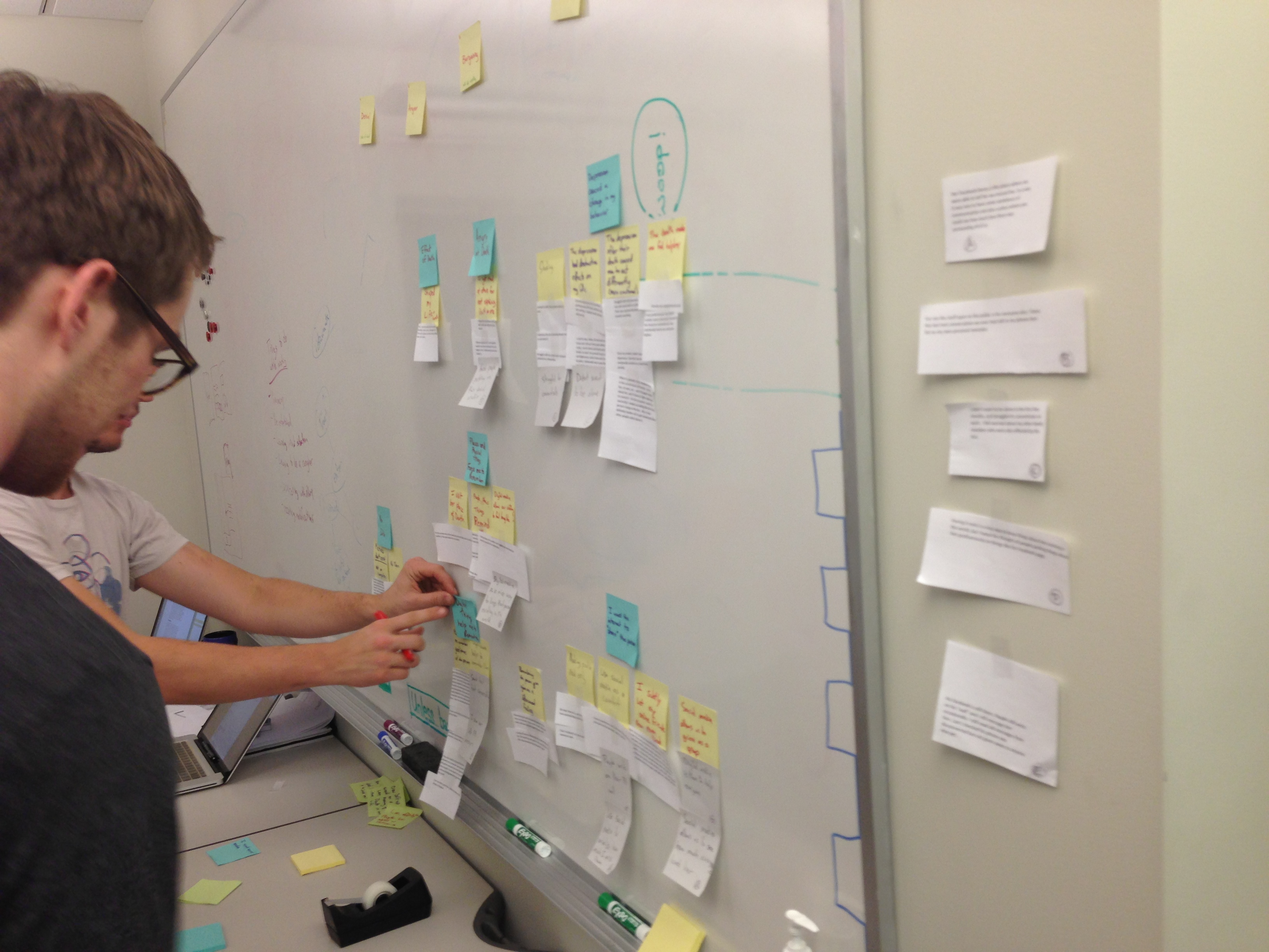
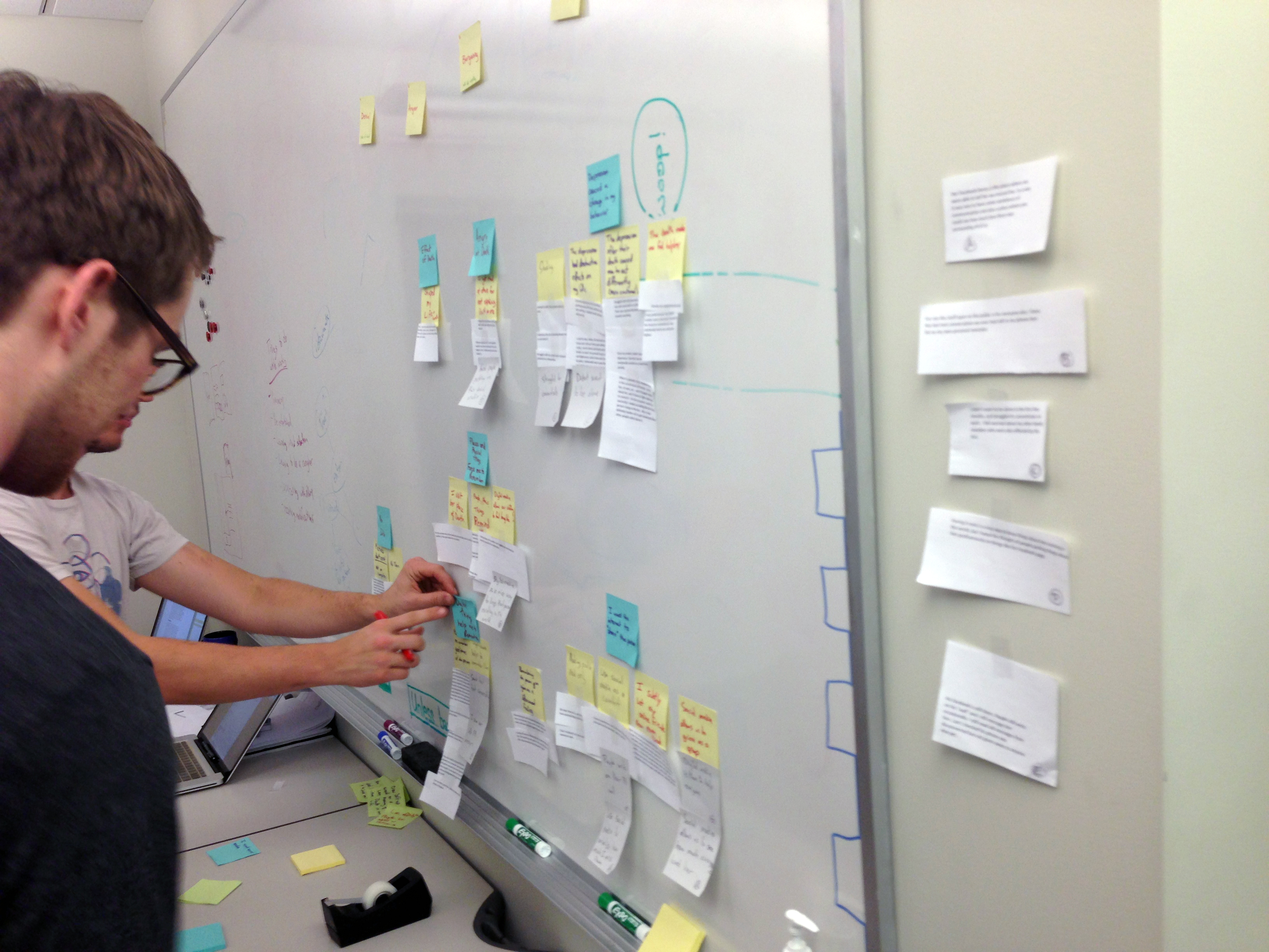
added 'various' post. renamed novo assets folder. recolored some images

diff --git a/_posts/2013-08-15-peer.html b/_posts/2013-08-15-peer.html
@@ -31,7 +31,7 @@ vimeo: //player.vimeo.com/video/72005257?byline=0&amp;portrait=0
     <p>Crew members on the ISS spend most of their time carrying out scientific research. For each research task, they must follow a rigid, complex procedure. The procedures, and the way they are used, cause a considerable reduction in efficiency; procedures are static text documents and are only viewable on wall-mounted laptops throughout the station.</p>
 
     <div class="figure">
-        <img class="fill" src="/assets/images/novo/iss_interior.jpg"\>
+        <img class="fill" src="/assets/images/peer/iss_interior.jpg"\>
         <p class="caption">The ISS isn't exactly simple, or tidy, or easy to work with, etc. Image courtesy of NASA</p>
     </div>
 
@@ -78,7 +78,7 @@ vimeo: //player.vimeo.com/video/72005257?byline=0&amp;portrait=0
     <p>Since we couldn't research our end users in context, we went on a nation-wide search to perform contextual research with individuals whose work was similar to the ISS crew in some way. We met with commercial pilots, deep sea divers, lab technicians, paramedics, construction managers, and pit crews based on the similarities their tasks shared with payload science and maintenance work.</p>
 
     <div class="figure">
-        <img class="fill" src="/assets/images/novo/card_mapping.jpg"\>
+        <img class="fill" src="/assets/images/peer/card_mapping.jpg"\>
         <p class="caption">We asked commercial pilots to visualize their workflow through a card mapping excercise.</p>
     </div>
 </section>
@@ -100,14 +100,14 @@ vimeo: //player.vimeo.com/video/72005257?byline=0&amp;portrait=0
     </ul>
 
     <div class="figure">
-        <img class="fill" src="/assets/images/novo/visioning.jpg"\>
+        <img class="fill" src="/assets/images/peer/visioning.jpg"\>
         <p class="caption">So many notes. Our visioning sessions resulted in over 400 individual ideas.</p>
     </div>
 
     <p>After several visioning sessions and activities, we narrowed down our vision to one utilizing a head-mounted display<sup><a id="ref2" href="#fn2" title="Jump to footnote.">2</a></sup>. The HMD would allow for hands-free interaction through voice interaction and leverage augmented-reality (AR) to provide information in place within a crew's work environment. We set off to start building.</p>
 
     <div class="figure">
-        <img class="fill" src="/assets/images/novo/rejected_vision.png"\>
+        <img class="fill" src="/assets/images/peer/rejected_vision.png"\>
         <p class="caption">One of our rejected visions had the crew using a wrist-worn device along with a tablet.</p>
     </div>
 </section>
@@ -117,7 +117,7 @@ vimeo: //player.vimeo.com/video/72005257?byline=0&amp;portrait=0
     <p>Lo-fidelity testing, rapid iteration, available hardware - these are all things imperative to prototyping. These are also all things that HMDs utterly fail at. Basically, if you want to test an application on an HMD, you have to build it. That is dumb. So, we had to find a way to quickly iterate and get feedback without building out functional software each time.</p>
 
     <div class="figure">
-        <img class="fill" src="/assets/images/novo/testing_room.png"\>
+        <img class="fill" src="/assets/images/peer/testing_room.png"\>
         <p class="caption">We tested by having users run through a pretend procedure in our mockup space station.</p>
     </div>
 
@@ -126,12 +126,12 @@ vimeo: //player.vimeo.com/video/72005257?byline=0&amp;portrait=0
     <p>The final version was designed to have a pretty simple, linear structure (while allowing users to jump to anywhere if desired). It splits steps into individual screens and provides in-context information and AR overlays to address the verbosity of current procedures.</p>
 
     <div class="figure">
-        <img class="fill" src="/assets/images/novo/ui_map.png"\>
+        <img class="fill" src="/assets/images/peer/ui_map.png"\>
         <p class="caption">A map of the prototype UI. Procedures are viewed linearly, but users can access other features through a menu.</p>
     </div>
 
     <div class="figure">
-        <img class="fill" src="/assets/images/novo/peer_ui.png"\>
+        <img class="fill" src="/assets/images/peer/peer_ui.png"\>
         <p class="caption">A view of the prototype's interface from a user's perspective.</p>
     </div>
 </section>
@@ -141,7 +141,7 @@ vimeo: //player.vimeo.com/video/72005257?byline=0&amp;portrait=0
     <p>For hardware, we chose to use the Epson Moverio due to it being one of the few available HMDs and its Affordability compared to the rest of the market. The down side is that the Moverio doesn't have any external sensors, so again we had to find a way to get what we needed. We ended up pairing the Moverio with a tablet to process all voice commands and handle the AR. The tablet then relayed what to display to the HMD. While not pretty - or ideal - it got the job done.</p>
 
     <div class="figure">
-        <img class="fill" src="/assets/images/novo/the_future.jpg"\>
+        <img class="fill" src="/assets/images/peer/the_future.jpg"\>
         <p class="caption">The only time it ever looked kind of cool.</p>
     </div>
 </section>

diff --git a/_posts/2000-01-01-various.html b/_posts/2000-01-01-various.html
@@ -1,0 +1,49 @@
+---
+layout: post
+categories: work
+title: "Various Others"
+tagline: "Other (often pointless) projects without detailed case studies."
+---
+
+<section>
+    <h2>Better than Freddy?</h2>
+    <p>Better than Freddy is the result of a conversation with my friend Jeff about whether or not a movie is "watchable". You enter the title of a movie and it tells you if it is better or worse than Freddy Got Fingered.</p>
+
+    <p><a href="http://www.betterthanfreddy.com" target="_blank">Check it out live.</a></p>
+
+    <div class="figure">
+        <img class="fill" src="/assets/images/various/freddy.png"\>
+    </div>
+
+</section>
+
+<section>
+    <h2>Robowall</h2>
+    <div class="meta">
+        <p class="team">
+          Team: <a href="http://www.jasontheblock.com" target="_blank">Jason Block</a>, <a href="http://www.kjschaef.com/" target="_blank">Kevin Schaefer</a>, <a href="http://www.cargocollective.com/heidiyang" target="_blank">Heidi Yang</a>
+        </p>
+    </div>
+
+    <p>The Robowall is an interactive display on Carnegie Mellon University’s campus that highlights people, projects, research, and events within the Human-Computer Interaction Institute and the Robotics Institute. I was brought on to implement the design in openFrameworks. We then pivoted and remade it in JavaScript.</p>
+
+    <div class="figure">
+        <iframe class="fill" src="http://www.youtube.com/embed/UbAjmfhKUZA?rel=0" frameborder="0" allowfullscreen></iframe>
+        <!--<iframe class="fill" src="http://player.vimeo.com/video/57041348?byline=0&amp;portrait=0" frameborder="0" webkitallowfullscreen mozallowfullscreen allowfullscreen></iframe>-->
+    </div>
+</section>
+
+<section>
+    <h2>Human Motion Analysis</h2>
+    <div class="meta">
+        <p class="team">
+          Team: <a href="http://www.raymondliaw.com" target="_blank">Ray Liaw</a>, Josh Caputo, Seungmoon Song, Yuzi Nakamura, Omri Amarilio
+        </p>
+    </div>
+
+    <p>We used CMU's motion capture lab to capture test subjects performing a number of different actions (running, throwing, etc.). We then analyzed that data to try to quantify the difference in how someone throws with their dominant hand as opposed to their non-dominant hand.</p>
+
+    <div class="figure">
+        <iframe class="fill" src="http://player.vimeo.com/video/63447950?byline=0&amp;portrait=0" frameborder="0" webkitallowfullscreen mozallowfullscreen allowfullscreen></iframe>
+    </div>
+</section>

diff --git a/_posts/2013-05-12-drift.html b/_posts/2013-05-12-drift.html
@@ -31,7 +31,7 @@ vimeo: http://player.vimeo.com/video/66026877?byline=0&amp;portrait=0
 
 <section>
     <h2>Planning our research</h2>
-    <p>We determined who we should speak with by laying out a simple spectrum of who is involved when someone dies. To one extreme are those focused on logistics and business, on the other were those focused on personal healing. The ones in need, those who lost a loved one, sit in the middle.</p>
+    <p>We determined who we should speak with by laying out a simple spectrum of who is involved when someone dies. To one extreme are those focused on logistics and business, on the other were those focused on personal healing. The ones in need sit in the middle.</p>
 
     <div class="figure">
         <img class="fill" src="/assets/images/drift/landscape.png"\>

diff --git a/_layouts/post.html b/_layouts/post.html
@@ -17,7 +17,7 @@ layout: default
           {% endfor %}
         </p>
       {% endif %}
-  </div>
+    </div>
   <!--
     <div>
         {% if page.image != null %}

diff --git a/css/main.css b/css/main.css
@@ -1,3 +1,7 @@
+/*
+  #A5A7BB
+  #536FFF
+*/
 
 *, *:before, *:after {
   -webkit-box-sizing: border-box;
